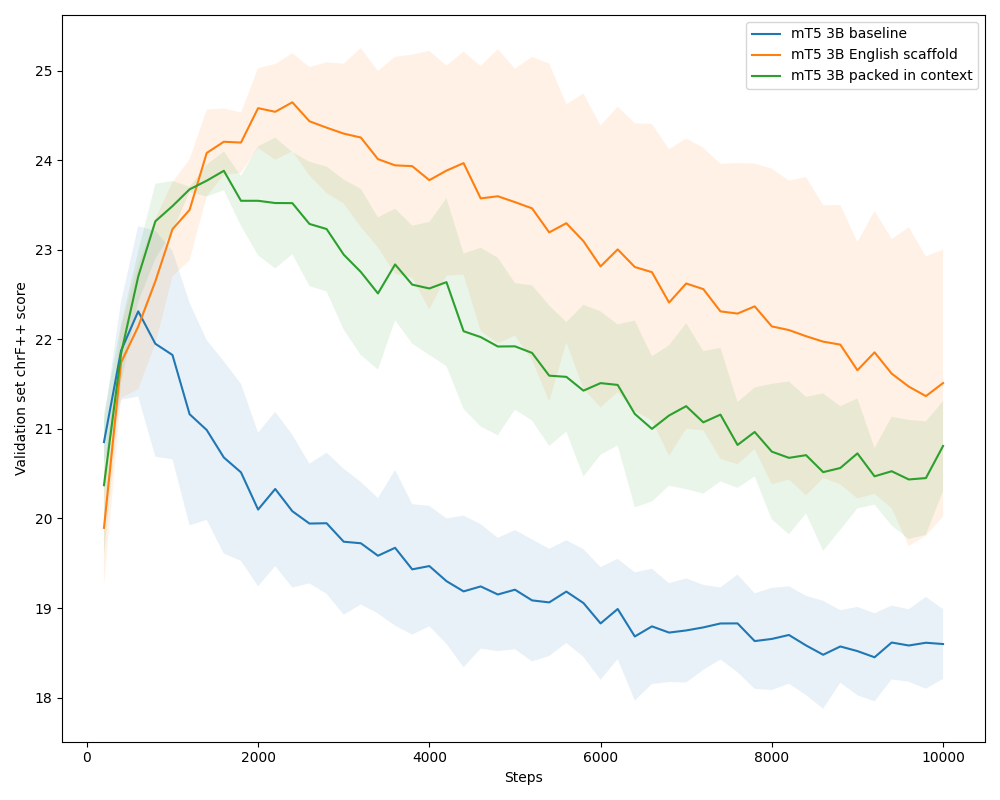
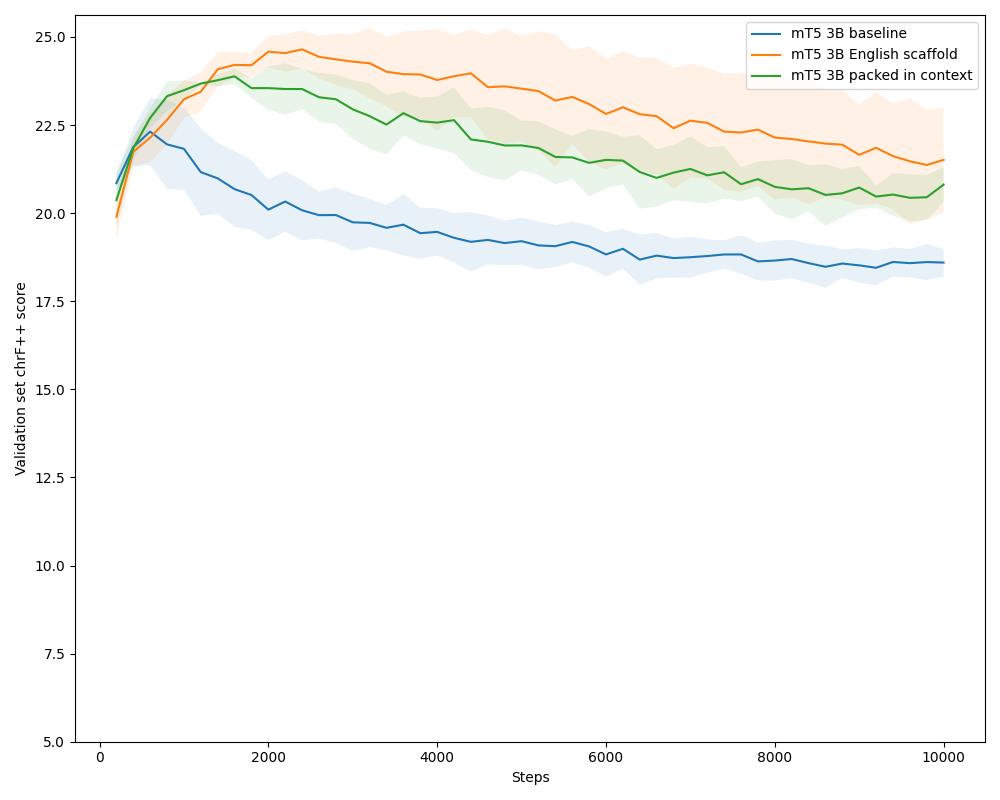
improving flores200 mt5 3b graph scaling

diff --git a/scripts/create_graph.py b/scripts/create_graph.py
@@ -1,7 +1,7 @@
 from typing import List, Tuple
 
 from os import listdir
-from os.path import exists, isdir, join
+from os.path import abspath, dirname, exists, isdir, join
 
 from tensorboard.backend.event_processing.event_accumulator import EventAccumulator
 
@@ -9,7 +9,10 @@ from numpy import array
 
 import matplotlib.pyplot as plt
 
-from lme import RESULTS_DIR, DATASET_CACHE_DIR
+
+ROOT_DIR = dirname(abspath(__file__))
+RESULTS_DIR = join(ROOT_DIR, "..", "results")
+GRAPHS_DIR = join(ROOT_DIR, "..", "graphs")
 
 
 __all__ = ["plot_experiment", "plot_comparative_experiment"]
@@ -83,7 +86,7 @@ def plot_experiment(experiment_name: str, title: str, property_name: str, y_labe
 
     ax.legend()
     fig.tight_layout()
-    fig.savefig(join(DATASET_CACHE_DIR, experiment_name))
+    fig.savefig(join(GRAPHS_DIR, experiment_name))
 
 
 def plot_comparative_experiment(
@@ -93,28 +96,11 @@ def plot_comparative_experiment(
     property_name: str,
     y_label: str,
     save_name: str,
+    y_min: float=None,
 ) -> None:
-    """
-    Plots the experiments by learning rate over time
-
-    Parameters
-    ----------
-    experiment_names: List[str]
-        Name of an experiment like [TranslationMT5600MExperiment, TranslationMT51BExperiment].
-    legend_labels: List[str]
-        Labels for experiments to display on the legend.
-    title: str
-        Title of the plot.
-    property_name: str
-        Property to plot over time.
-    y_label: str
-        The label for the y-axis.
-    save_name: str
-
-    """
-
     if not save_name.endswith(".png"): save_name += ".png"
-    save_path = join(DATASET_CACHE_DIR, save_name)
+    save_path = join(GRAPHS_DIR, save_name)
+    print(save_path)
     if exists(save_path):
         print(f"Already have a graph at {save_path}")
         return
@@ -134,6 +120,11 @@ def plot_comparative_experiment(
 
         ax.plot(steps, means, label=legend_label)
         ax.fill_between(steps, means-stds, means+stds, alpha=.1)
+
+    if y_min is not None:
+        y_min = min(y_min, ax.get_ylim()[0])
+        y_max = ax.get_ylim()[1]
+        ax.set_ylim(y_min, y_max)
 
     ax.set_xlabel("Steps")
     ax.set_ylabel(y_label)

diff --git a/graphs/generate_flores_graphs.py b/graphs/generate_flores_graphs.py
@@ -26,4 +26,5 @@ plot_comparative_experiment(
     "eval/chrf++",
     "Validation set chrF++ score",
     "flores200_3b",
+    y_min=5.0,
 )
